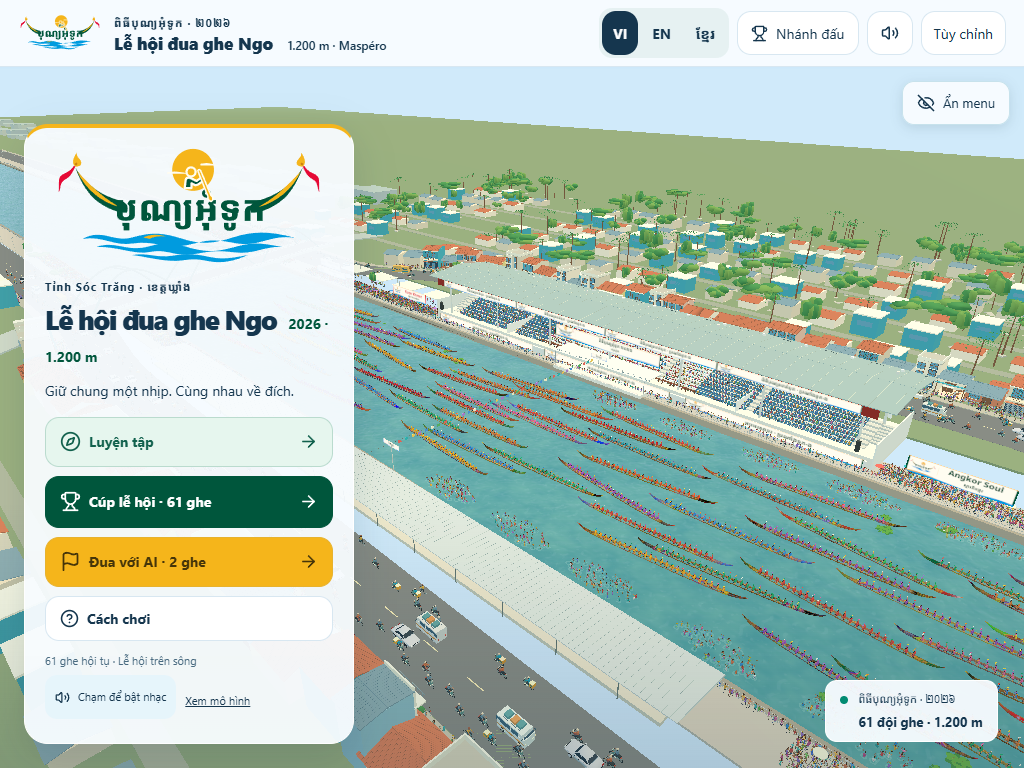
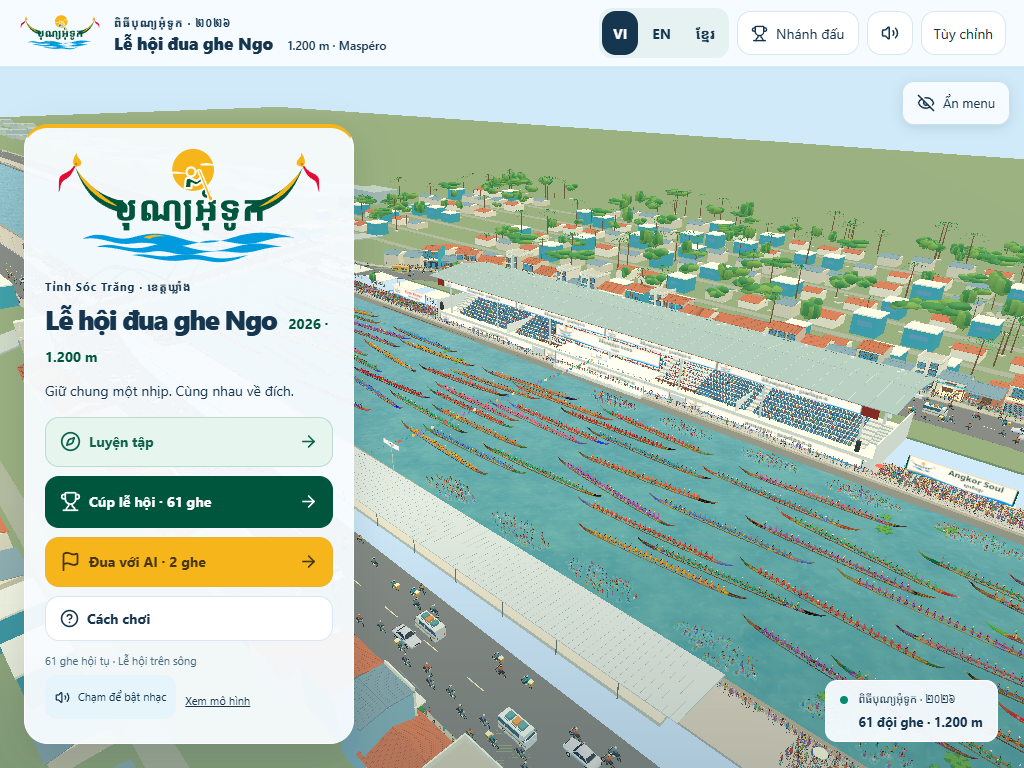
Keep the festival header compact and usable on portrait screens

diff --git a/src/components/RaceGame.css b/src/components/RaceGame.css
@@ -59,7 +59,7 @@
 [data-testid=festival-game] .festival-menu-logo{width:min(100%,272px);height:auto;aspect-ratio:20/9;margin:0 auto 8px;border-radius:0;filter:none}
 [data-testid=festival-game] .game-menu-card{border-top:4px solid var(--gold)}
 @media(max-height:600px){[data-testid=festival-game] .festival-menu-logo{width:156px;margin-bottom:3px}}
-@media(max-width:620px){[data-testid=festival-game] .festival-logo{width:60px;height:26px}[data-testid=festival-game] .festival-menu-logo{width:225px}}
+@media(max-width:620px){[data-testid=festival-game] .festival-logo{width:60px;height:26px}[data-testid=festival-game] .festival-menu-logo{width:225px}.game-browsing .game-brand{flex:0 0 60px}.game-browsing .game-brand>div{position:absolute;width:1px;height:1px;overflow:hidden;clip-path:inset(50%);white-space:nowrap}.game-browsing .game-heading{gap:8px}.game-browsing .game-heading-actions{gap:6px}}
 @media(max-height:550px) and (max-width:700px){[data-testid=festival-game] .festival-menu-logo{width:140px}}
 
 [data-testid=festival-game] .game-stroke{touch-action:none;user-select:none;-webkit-user-select:none;-webkit-touch-callout:none}

diff --git a/scripts/check-festival-branding.py b/scripts/check-festival-branding.py
@@ -57,6 +57,10 @@ with sync_playwright() as p:
    assert page.locator('.festival-menu-logo').evaluate('e=>e.complete&&e.naturalWidth===1200')
    for button in page.locator('.menu-actions button').all():
     assert button.bounding_box()['height']>=44
+   for control in page.locator('.game-heading-actions>button,.game-heading-actions .game-language button,.game-heading-actions .game-audio-options>summary').all():
+    if not control.is_visible():continue
+    box=control.bounding_box();assert box['height']>=44 and box['x']>=0 and box['x']+box['width']<=width+.5,box
+    assert control.evaluate("e=>{const b=e.getBoundingClientRect(),hit=document.elementFromPoint(b.x+b.width/2,b.y+b.height/2);return hit===e||e.contains(hit)}")
    page.screenshot(path=str(out/f'menu-{width}x{height}.png'))
    result['responsive'].append([width,height])
   page.set_viewport_size({'width':1024,'height':768})
